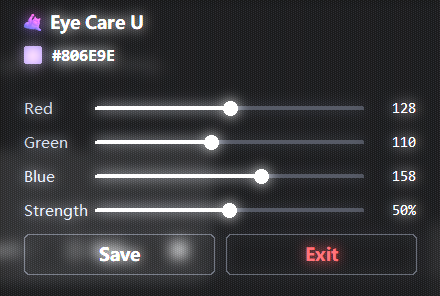
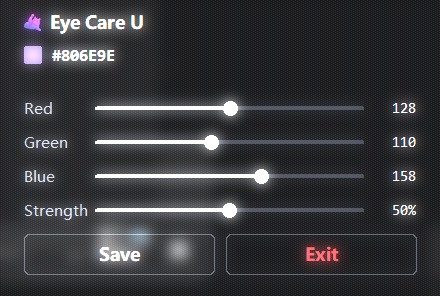
qa: 截图统一在测试结束稳定后抓取

Changed region(s): [[0.2068, 0.7297, 0.3545, 0.8514], [0.0, 0.8209, 0.0295, 0.8818]]

diff --git a/tools/menu_qa.py b/tools/menu_qa.py
@@ -136,11 +136,16 @@ def main():
               "save_count =", app.save_count)
 
     def finish():
+        # 抓图放在测试全部结束、画面稳定之后（450ms 处会撞上 DWM 模糊过渡动画，
+        # 抓出来是糊的）；README 截图与 QA 留档同步生成
         p = ensure_panel()
         hwnd = m.native_hwnd(p.win)
         rect = wt.RECT()
         user32.GetWindowRect(hwnd, ctypes.byref(rect))
-        grab_rect(rect, os.path.join(ROOT, "tools", "menu_shot.png"))
+        shot = os.path.join(ROOT, "tools", "menu_shot.png")
+        grab_rect(rect, shot)
+        os.replace(shot, os.path.join(ROOT, "docs", "panel.png"))
+        print("screenshot ->", os.path.join(ROOT, "docs", "panel.png"))
         p.close()
         root.destroy()
 
